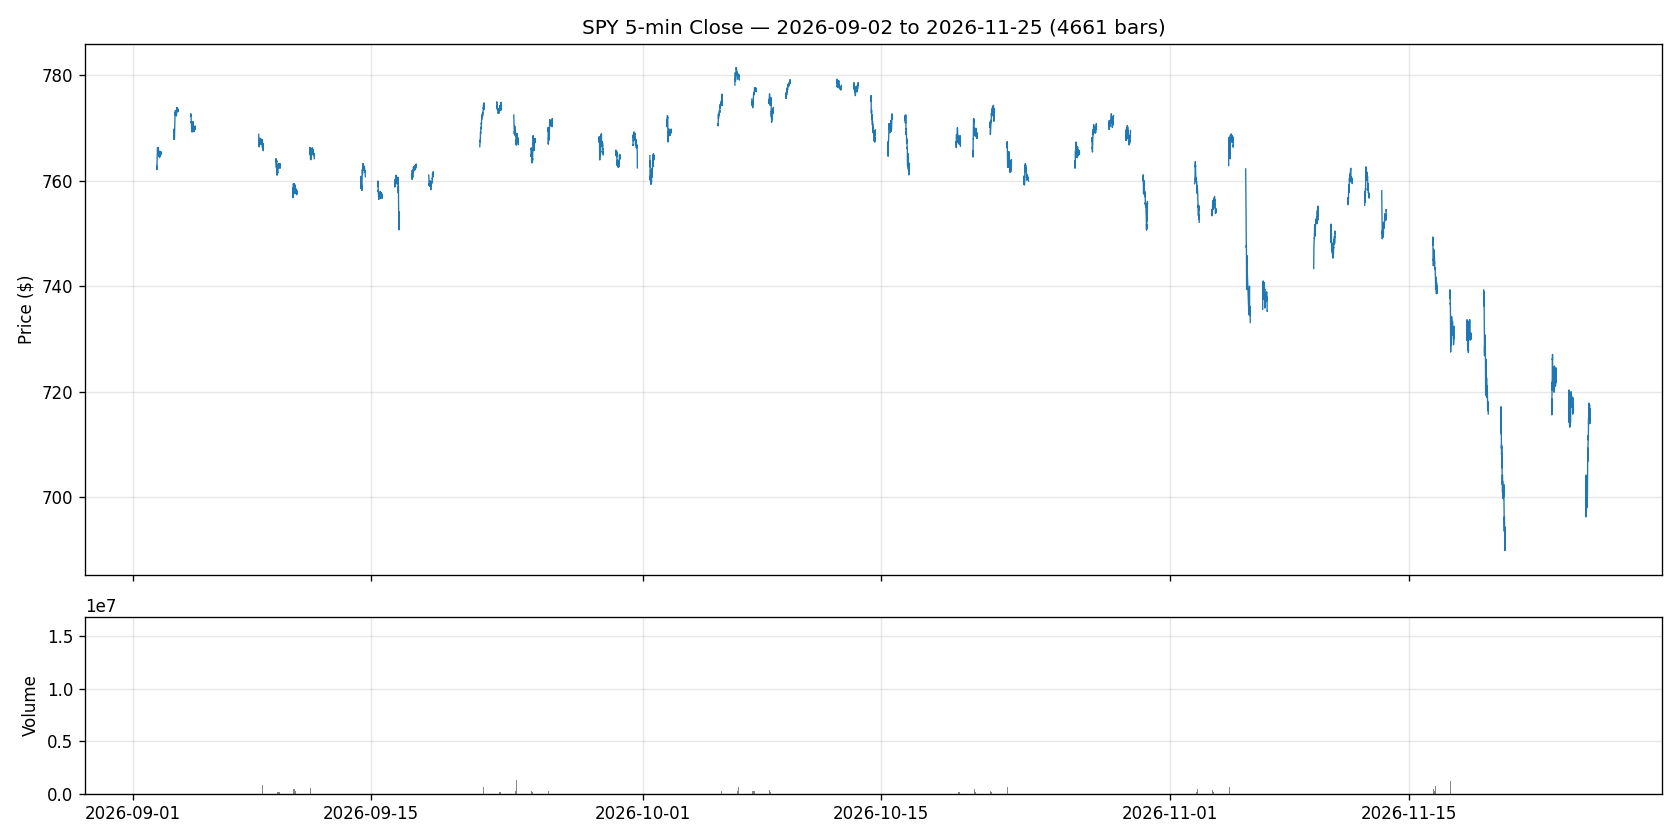
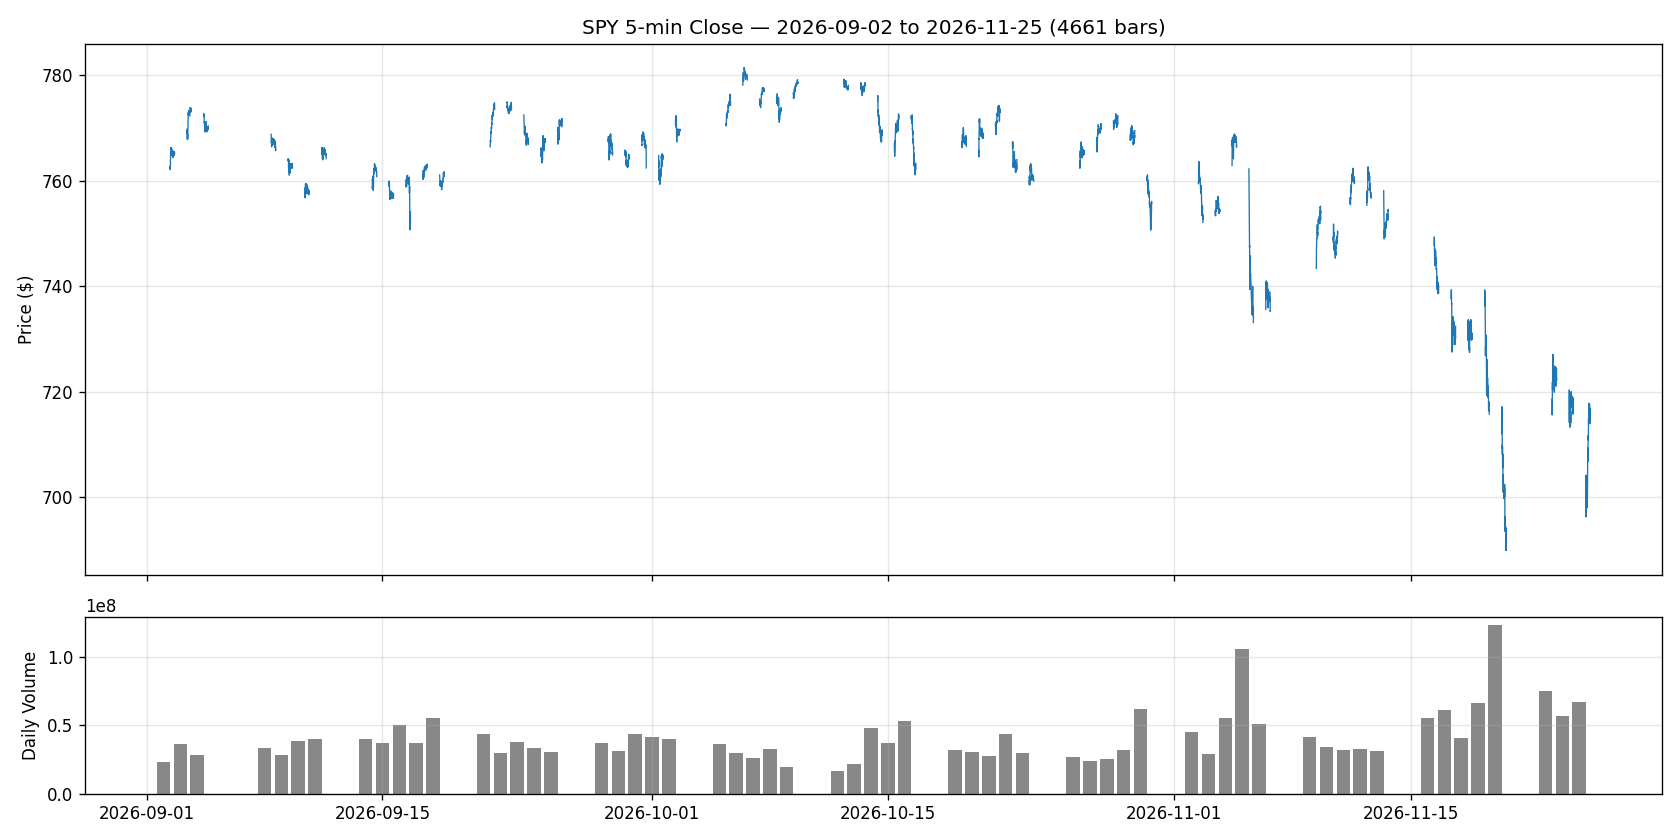
Fix unreadable volume bars in price/volume plot
Volume bars used a fixed width far too thin for the 3-month x-axis,
making them invisible. Aggregate to daily volume instead.

diff --git a/scripts/show_data.py b/scripts/show_data.py
@@ -17,7 +17,7 @@ OUT_DIR = Path(__file__).resolve().parents[1] / "outputs"
 def _break_between_days(df):
     """Insert a NaN row at each day boundary so plot lines don't bridge overnight gaps."""
     day = df.index.date
-    boundary = pd.Series(day).ne(pd.Series(day).shift()).to_numpy()
+    boundary = pd.Series(day).ne(pd.Series(day).shift()).to_numpy().copy()
     boundary[0] = False
     if not boundary.any():
         return df
@@ -44,8 +44,10 @@ def plot_price_volume(df: pd.DataFrame) -> Path:
     ax_price.set_ylabel("Price ($)")
     ax_price.grid(alpha=0.3)
 
-    ax_vol.bar(df.index, df["volume"], width=0.0005, color="#888888")
-    ax_vol.set_ylabel("Volume")
+    daily_volume = df["volume"].resample("1D").sum()
+    daily_volume = daily_volume[daily_volume > 0]
+    ax_vol.bar(daily_volume.index, daily_volume.values, width=0.8, color="#888888")
+    ax_vol.set_ylabel("Daily Volume")
     ax_vol.grid(alpha=0.3)
 
     fig.tight_layout()
